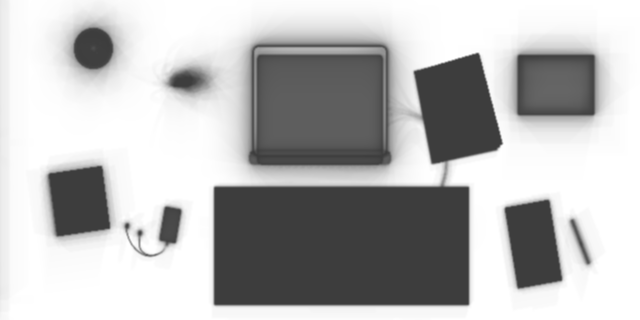
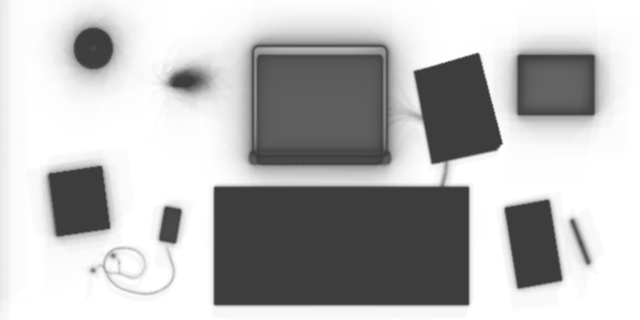
Restore oxblood leather, balanced desk framing and vertical pan; remodel wired earphones and limit portfolio routes

Changed region(s): [[0.125, 0.6875, 0.25, 0.9375], [0.2188, 0.75, 0.2812, 0.9062]]

diff --git a/app/studio-scene.tsx b/app/studio-scene.tsx
@@ -6,6 +6,7 @@ import Link from 'next/link'
 import * as THREE from 'three'
 import { GLTFLoader } from 'three/addons/loaders/GLTFLoader.js'
 import { RoomEnvironment } from 'three/addons/environments/RoomEnvironment.js'
+import { RoundedBoxGeometry } from 'three/addons/geometries/RoundedBoxGeometry.js'
 import './studio.css'
 
 const destinations: Record<string, { label: string; href: string }> = {
@@ -224,6 +225,9 @@ export default function StudioScene(){
       const name=hit.object.name.toLowerCase()
       const target=object.userData.destination as string
       let route: {label:string;href:string}|undefined=destinations[target]
+      // Only the résumé opens the old professional portfolio. Keep visual
+      // interactions, labels and the independent games/journal unchanged.
+      if(route?.href.startsWith('/classic')&&target!=='target_experience')route=undefined
       if(object.name==='computer'){
         route=undefined
         if(name==='computer_screen'&&hit.uv){
@@ -234,7 +238,7 @@ export default function StudioScene(){
           }
         }
       }
-      let label=route?.label??''
+      let label=route?.label??destinations[target]?.label??''
       if(target==='target_education')label=object.name==='degree-0'?'University of Michigan · Education':'UC Berkeley · Education'
       else if(object.name==='computer'||object.name==='keyboard'||object.name==='mouse'){
         if(object.name==='mouse')label='Wired mouse'
@@ -269,7 +273,7 @@ export default function StudioScene(){
       if(pointer){
         if(e.pointerId!==pointer.id)return
         dragYaw=THREE.MathUtils.clamp(pointer.yaw+(e.clientX-pointer.x)/bounds.width*.48,-.19,.19)
-        dragPitch=0
+        dragPitch=THREE.MathUtils.clamp(pointer.pitch+(e.clientY-pointer.y)/bounds.height*.20,-.07,.07)
         if(Math.hypot(e.clientX-pointer.x,e.clientY-pointer.y)>5){updateHover('');highlight()}
       }else if(e.pointerType==='mouse'){
         const x=(e.clientX-bounds.left)/bounds.width*2-1,y=(e.clientY-bounds.top)/bounds.height*2-1
@@ -358,7 +362,7 @@ export default function StudioScene(){
       }
       const fill=new THREE.DirectionalLight('#d1e2e4',.38);fill.position.set(4,4,5);scene.add(fill)
       lampLight=new THREE.PointLight('#ffb65f',8.5,3.4,2);lampLight.position.set(-1.55,2.30,-.77);scene.add(lampLight)
-      const resize=()=>{if(!renderer||!host.clientWidth||!host.clientHeight)return;dirty=true;aspect=host.clientWidth/host.clientHeight;camera.aspect=aspect;camera.fov=aspect<1.15?34:Math.min(31,THREE.MathUtils.radToDeg(2*Math.atan(Math.tan(THREE.MathUtils.degToRad(15.5))*1.5/aspect)));camera.zoom=1;camera.updateProjectionMatrix();renderer.setSize(host.clientWidth,host.clientHeight)}
+      const resize=()=>{if(!renderer||!host.clientWidth||!host.clientHeight)return;dirty=true;aspect=host.clientWidth/host.clientHeight;camera.aspect=aspect;camera.fov=aspect<1.15?42:Math.min(33.5,THREE.MathUtils.radToDeg(2*Math.atan(Math.tan(THREE.MathUtils.degToRad(16.75))*1.85/aspect)));camera.zoom=1;camera.updateProjectionMatrix();renderer.setSize(host.clientWidth,host.clientHeight)}
       observer=new ResizeObserver(resize);observer.observe(host);resize()
       const apply=(mesh:THREE.Mesh,texture:THREE.Texture,unlit=false)=>{
         dirty=true;textures.push(texture);const material=unlit?new THREE.MeshBasicMaterial({map:texture}):new THREE.MeshStandardMaterial({map:texture,roughness:.86});ownedMaterials.push(material);mesh.material=material
@@ -385,6 +389,36 @@ export default function StudioScene(){
             const book=await loader.parseAsync(bookBuffer,'/');if(!alive)return
             research.clear();book.scene.name='Approved research book';book.scene.position.set(-2.78,1.34,.55);book.scene.rotation.y=THREE.MathUtils.degToRad(8);research.add(book.scene)
             host.dataset.researchBook='bound-leather'
+          }
+          const player=model.getObjectByName('Mint pocket MP3')
+          if(player){
+            const old:THREE.Object3D[]=[];player.traverse(o=>{if(/^(Earphone lead|Earbud housing|Headphone plug)/.test(o.name))old.push(o)});old.forEach(o=>o.removeFromParent())
+            const rubber=new THREE.MeshStandardMaterial({color:'#292a29',roughness:.72}),housing=new THREE.MeshStandardMaterial({color:'#303335',roughness:.36,metalness:.23}),silicone=new THREE.MeshStandardMaterial({color:'#1c1c1c',roughness:.88}),metal=new THREE.MeshStandardMaterial({color:'#858c89',roughness:.34,metalness:.8}),bezel=new THREE.MeshStandardMaterial({color:'#53645d',roughness:.38,metalness:.24})
+            ownedMaterials.push(rubber,housing,silicone,metal,bezel)
+            const add=(name:string,geometry:THREE.BufferGeometry,material:THREE.Material,parent:THREE.Object3D,position:THREE.Vector3)=>{const mesh=new THREE.Mesh(geometry,material);mesh.name=name;mesh.position.copy(position);parent.add(mesh);return mesh}
+            add('Player screen inset bezel',new RoundedBoxGeometry(.184,.004,.222,3,.012),bezel,player,new THREE.Vector3(0,.046,-.064))
+            add('Player side volume button',new RoundedBoxGeometry(.007,.018,.055,3,.002),metal,player,new THREE.Vector3(.104,.025,-.025))
+            add('Headphone connector',new RoundedBoxGeometry(.031,.021,.058,3,.008),housing,player,new THREE.Vector3(0,.021,.218))
+            const cable=(name:string,points:THREE.Vector3[],radius=.0038)=>{const curve=new THREE.CatmullRomCurve3(points,false,'centripetal');add(name,new THREE.TubeGeometry(curve,Math.max(24,points.length*12),radius,8,false),rubber,player,new THREE.Vector3())}
+            const v=(x:number,y:number,z:number)=>new THREE.Vector3(x,y,z)
+            // A long, loose coil lies entirely on the free area in front of
+            // the player. The branch point is a real molded Y splitter.
+            const split=v(-.48,.015,.63)
+            cable('Earphone main cable',[v(0,.021,.245),v(.055,.013,.34),v(.135,.012,.54),v(.025,.012,.72),v(-.29,.012,.80),v(-.59,.012,.70),v(-.67,.012,.48),v(-.44,.012,.34),v(-.23,.018,.43),v(-.26,.019,.62),split])
+            add('Earphone Y splitter',new RoundedBoxGeometry(.025,.022,.055,3,.008),housing,player,split)
+            const makeBud=(name:string,center:THREE.Vector3,direction:THREE.Vector3,lead:THREE.Vector3[])=>{
+              const group=new THREE.Group();group.name=name;group.position.copy(center);group.quaternion.setFromUnitVectors(v(0,1,0),direction.clone().normalize());player.add(group)
+              const profile=(points:number[][])=>new THREE.LatheGeometry(points.map(([r,y])=>new THREE.Vector2(r,y)),32)
+              add(name+' molded housing',profile([[.009,-.031],[.017,-.026],[.023,-.017],[.025,-.005],[.022,.009],[.016,.02],[.010,.024]]),housing,group,v(0,0,0))
+              add(name+' acoustic silver collar',new THREE.CylinderGeometry(.017,.017,.003,32),metal,group,v(0,.018,0))
+              add(name+' silicone tip',profile([[.010,.022],[.019,.025],[.021,.031],[.017,.039],[.009,.042],[.007,.039]]),silicone,group,v(0,0,0))
+              add(name+' sound mesh',new THREE.CylinderGeometry(.007,.007,.002,24),rubber,group,v(0,.042,0))
+              add(name+' strain relief',new THREE.CylinderGeometry(.007,.004,.025,16),rubber,group,v(0,-.042,0))
+              const end=center.clone().addScaledVector(direction.clone().normalize(),-.053);cable(name+' branch cable',[split,...lead,end],.0028)
+            }
+            makeBud('Earbud left',v(-.59,.031,.45),v(-.9,.06,-.4),[v(-.50,.013,.57),v(-.52,.013,.48)])
+            makeBud('Earbud right',v(-.79,.031,.65),v(-.6,.06,.8),[v(-.62,.013,.64),v(-.71,.013,.58)])
+            host.dataset.earphones='coiled-in-ear'
           }
           const vegetation:THREE.Object3D[]=[]
           model.traverse(obj=>{if(/^Exterior (tree |scanned shrub)/.test(obj.name))vegetation.push(obj)})
@@ -426,7 +460,7 @@ export default function StudioScene(){
             if(!legacy&&obj.name.startsWith('Lamp ')){obj.castShadow=false;obj.receiveShadow=false}
             if(m.name==='Satin amber pendant glass'){lampShades.add(m);m.emissive.set('#ff9d2f');m.emissiveIntensity=.8;obj.castShadow=false}
             if(m.name==='Olive lacquer'){m.map=lacquer;m.color.set('#ffffff');m.bumpMap=grain;m.bumpScale=.002;m.roughness=.48;m.metalness=0;m.needsUpdate=true}
-            if(m.name==='Warm oxblood calfskin'){m.bumpMap=grain;m.bumpScale=.0012;m.roughness=.65;m.needsUpdate=true}
+            if(m.name==='Warm oxblood calfskin'){m.color.setRGB(.095,.018,.009);m.bumpMap=grain;m.bumpScale=.0012;m.roughness=.65;m.needsUpdate=true;host.dataset.researchLeather='oxblood-red'}
             if(m.name==='Chevron oak parquet'){m.map=floorColor;m.color.set('#ffffff');m.bumpMap=floorHeight;m.bumpScale=.012;m.roughness=.58;m.metalness=0;m.needsUpdate=true}
             if(obj.name==='Continuous oak subfloor'&&obj.position.y> -1.46)obj.position.y-=.04
             // The rainbow decal was only 1 mm above the desktop. Use a
@@ -487,14 +521,16 @@ export default function StudioScene(){
         if(portrait){
           // Bound the entire visible frustum, not just the camera center.
           // Wider portrait/tablet viewports need less lateral translation.
-          const panLimit=Math.min(2.10,Math.max(0,3.35-2.52*aspect))
+          const panLimit=Math.min(2.10,Math.max(0,3.55-3.34*aspect))
           const pan=THREE.MathUtils.clamp(-dragYaw*11.9,-panLimit,panLimit)
-          desired.set(pan+.08,3.42,5.95)
-          restLook.set(pan,2.30,-.35)
+          const vertical=THREE.MathUtils.clamp(-dragPitch*3.1,-.22,.22)
+          desired.set(pan+.08,3.50+vertical,6.50)
+          restLook.set(pan,1.90+vertical,-.35)
         }else{
           const radius=8.9
           const a=reduced?.035:THREE.MathUtils.clamp(.035+yaw+dragYaw,-.095,.095)
-          desired.set(Math.sin(a)*radius,3.86,Math.cos(a)*radius);restLook.set(.1,2.26,-.35)
+          const vertical=THREE.MathUtils.clamp(-dragPitch*3.1,-.22,.22)
+          desired.set(Math.sin(a)*radius,3.86+vertical,Math.cos(a)*radius);restLook.set(.1,2.05+vertical,-.35)
         }
         const position=focusCamera??desired,target=focus??restLook
         for(const cloth of Array.from(curtains.values())){
@@ -549,6 +585,6 @@ export default function StudioScene(){
         <p className="contact-exit-hint">Press Esc or click outside to return</p>
       </div></div>}
     </div>
-    <nav className="studio-index" aria-label="Portfolio sections" data-allow-overflow><Link href="/classic#about">About</Link><Link href="/classic#education">Education</Link><Link href="/classic#experience">Experience</Link><Link href="/classic#projects">Projects</Link><Link href="/classic#skills">Skills</Link><Link href="/hobbies">Hobbies</Link><Link href="/game">Alchemy</Link><Link href="/game/afterglow">Afterglow</Link><button type="button" className="studio-contact-link" onClick={openContact}>Contact</button></nav>
+    <nav className="studio-index" aria-label="Portfolio sections" data-allow-overflow><Link href="/classic#experience">Résumé</Link><Link href="/hobbies">Hobbies</Link><Link href="/game">Alchemy</Link><Link href="/game/afterglow">Afterglow</Link><button type="button" className="studio-contact-link" onClick={openContact}>Contact</button></nav>
   </main>
 }

diff --git a/tests/studio-render.spec.ts b/tests/studio-render.spec.ts
@@ -19,6 +19,9 @@ test('real WebGL lamp toggles, hover and drag do not produce black frame spikes'
   await expect(stage).toHaveAttribute('data-status','ready',{timeout:120_000})
   await expect(host).toHaveAttribute('data-lamp-transmission-count','0')
   await expect(host).toHaveAttribute('data-research-book','bound-leather')
+  await expect(host).toHaveAttribute('data-research-leather','oxblood-red')
+  await expect(host).toHaveAttribute('data-earphones','coiled-in-ear')
+  await expect(page.locator('.studio-index a[href^="/classic"]')).toHaveCount(1)
   await page.waitForTimeout(1800)
   const capture=async(name:string)=>{const shot=await page.screenshot({timeout:90_000,path:info.outputPath(`${name}.png`)});return luminance(page,shot)}
   const original=await capture('initial')
@@ -29,7 +32,7 @@ test('real WebGL lamp toggles, hover and drag do not produce black frame spikes'
   const measurementStart=startDiagnostics.frames?.at(-1)?.time??0
   // The original model's shade center projects to this region of the 3:2 frame.
   let lamp:{x:number;y:number}|undefined
-  for(const [x,y] of [[287,283],[298,283],[280,275],[300,269],[310,270],[290,260]]){
+  for(const [x,y] of [[302,262],[298,270],[310,260],[290,260],[300,269],[287,283]]){
     await page.mouse.move(x,y);await page.waitForTimeout(350)
     if((await page.locator('.studio-object-tooltip').textContent())?.includes('Lamp')){lamp={x,y};break}
   }
@@ -76,5 +79,6 @@ test('portrait starts on desk detail and pans without losing WebGL',async({page}
   // Repeated full-width swipes and a viewport change cannot expose the corner.
   for(let i=0;i<3;i++){await page.mouse.move(370,440);await page.mouse.down();await page.mouse.move(12,790);await page.mouse.up()}
   const host=page.locator('.studio-render');const target=(await host.getAttribute('data-camera-target'))!.split(',').map(Number)
-  expect(Math.abs(target[0])).toBeLessThanOrEqual(2.10);expect(target[1]).toBeCloseTo(2.30,2)
+  expect(Math.abs(target[0])).toBeLessThanOrEqual(2.10);expect(target[1]).toBeGreaterThanOrEqual(1.68);expect(target[1]).toBeLessThanOrEqual(2.12)
+  expect(target[1]).toBeLessThan(1.89)
 })

diff --git a/scripts/rebake-research-desk.py b/scripts/rebake-research-desk.py
@@ -12,6 +12,23 @@ with tempfile.TemporaryDirectory() as tmp:
     old=bpy.data.objects.get('target_projects')
     if old:
         for o in list(old.children_recursive):bpy.data.objects.remove(o,do_unlink=True)
+    player=bpy.data.objects.get('Mint pocket MP3')
+    if player:
+        for o in list(player.children_recursive):
+            if o.name.startswith(('Earphone lead','Earbud housing','Headphone plug')):bpy.data.objects.remove(o,do_unlink=True)
+        # Match the new cable and silicone earpieces in the runtime. These
+        # receiver-bake meshes are independent of the exported web geometry.
+        def wire(name,points,r):
+            cu=bpy.data.curves.new(name,'CURVE');cu.dimensions='3D';cu.bevel_depth=r;cu.bevel_resolution=3
+            s=cu.splines.new('BEZIER');s.bezier_points.add(len(points)-1)
+            for p,(x,y,z) in zip(s.bezier_points,points):p.co=(x,-z,y);p.handle_left_type=p.handle_right_type='AUTO'
+            o=bpy.data.objects.new(name,cu);bpy.context.collection.objects.link(o);o.parent=player
+            bpy.ops.object.select_all(action='DESELECT');o.select_set(True);bpy.context.view_layer.objects.active=o;bpy.ops.object.convert(target='MESH')
+        wire('New main earphone cable',[(0,.021,.245),(.055,.013,.34),(.135,.012,.54),(.025,.012,.72),(-.29,.012,.80),(-.59,.012,.70),(-.67,.012,.48),(-.44,.012,.34),(-.23,.018,.43),(-.26,.019,.62),(-.48,.015,.63)],.0038)
+        wire('New left branch',[(-.48,.015,.63),(-.50,.013,.57),(-.52,.013,.48),(-.542,.028,.471)],.0028)
+        wire('New right branch',[(-.48,.015,.63),(-.62,.013,.64),(-.71,.013,.58),(-.758,.028,.608)],.0028)
+        for x,y,z in [(-.59,.031,.45),(-.79,.031,.65)]:
+            bpy.ops.mesh.primitive_uv_sphere_add(segments=16,ring_count=8,radius=.026,location=(0,0,0));o=bpy.context.object;o.name='New earbud contact';o.parent=player;o.location=(x,-z,y);o.scale=(1.3,1,.8)
     before=set(bpy.context.scene.objects);bpy.ops.import_scene.gltf(filepath=str(book))
     transform=Matrix.Translation(Vector((-2.78,-.55,1.34)))@Matrix.Rotation(math.radians(8),4,'Z')
     for o in set(bpy.context.scene.objects)-before:
